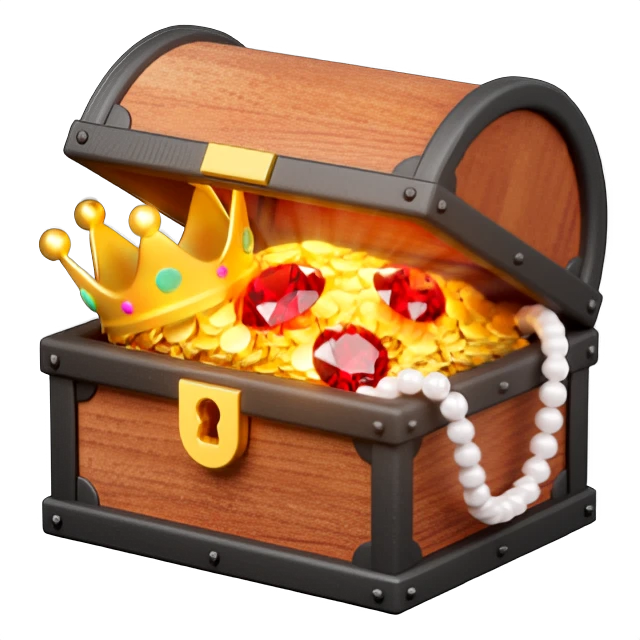
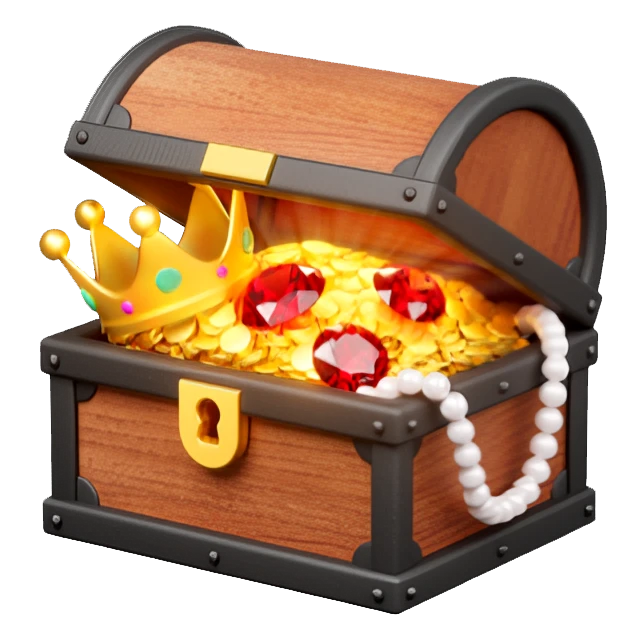
fixed linter

diff --git a/frontend/src/components/landing-page/LandingPage.tsx b/frontend/src/components/landing-page/LandingPage.tsx
@@ -12,12 +12,12 @@ interface Warchest {
 
 export default function LandingPage() {
   const [text, setText] = useState("");
-  const [warchests, setWarchests] = useState<Warchest[]>([]);
+  const [warchests, setWarchests] = useState<Array<Warchest>>([]);
   const navigate = useNavigate();
 
   function handleChange(change: string) {
     if (change.length > text.length) {
-      for (var i = 0; i < (change.length - text.length); i++) {
+      for (let i = 0; i < (change.length - text.length); i++) {
         const newWarchest: Warchest = {
           id: crypto.randomUUID(),
           x: Math.random() * 100,
@@ -99,7 +99,7 @@ export default function LandingPage() {
               fontSize: '18px',
               borderRadius: '8px',
               border: '1px solid #ccc',
-              background: 'rgba(0,0,0,0)',
+              background: 'rgba(255,255,255,1)',
               width: '300px',
               boxShadow: '0 4px 6px rgba(0,0,0,0.1)',
             }}

diff --git a/frontend/src/components/dashboard/Dashboard.tsx b/frontend/src/components/dashboard/Dashboard.tsx
@@ -1,0 +1,7 @@
+export function DashboardComponent() {
+  return (
+    <div>
+        <h1>WARCHEST Dashboard</h1>
+    </div>
+  );
+}
